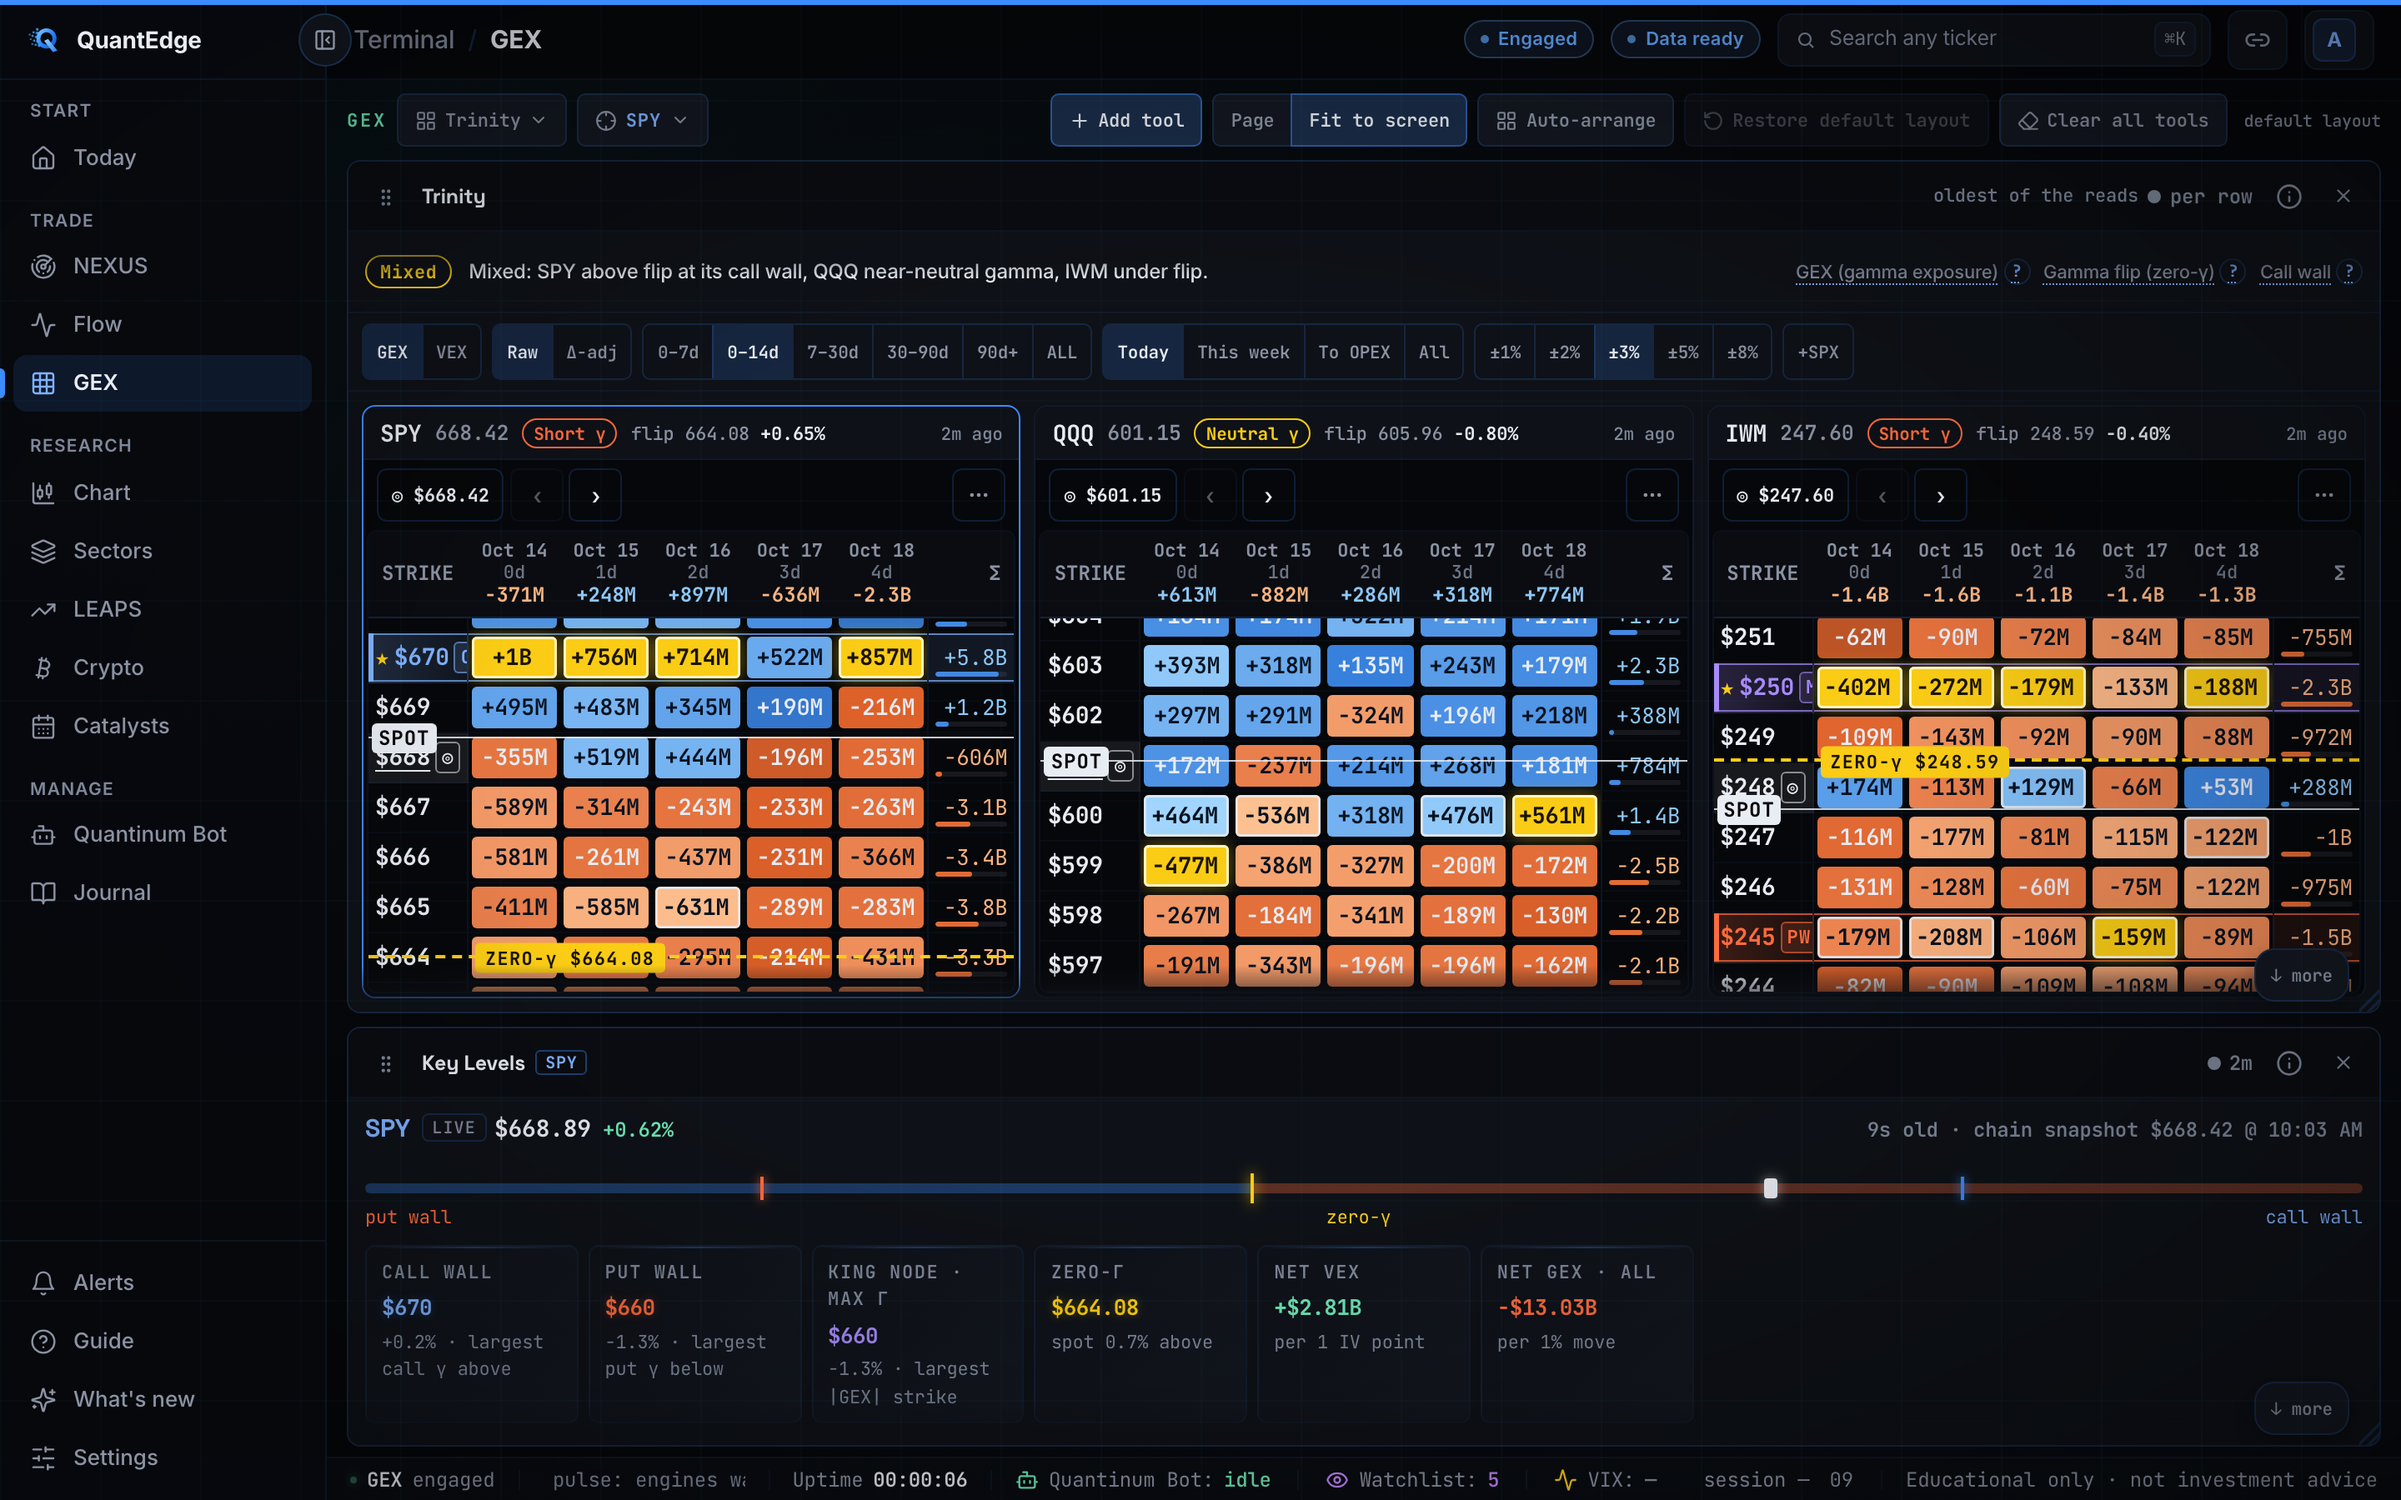
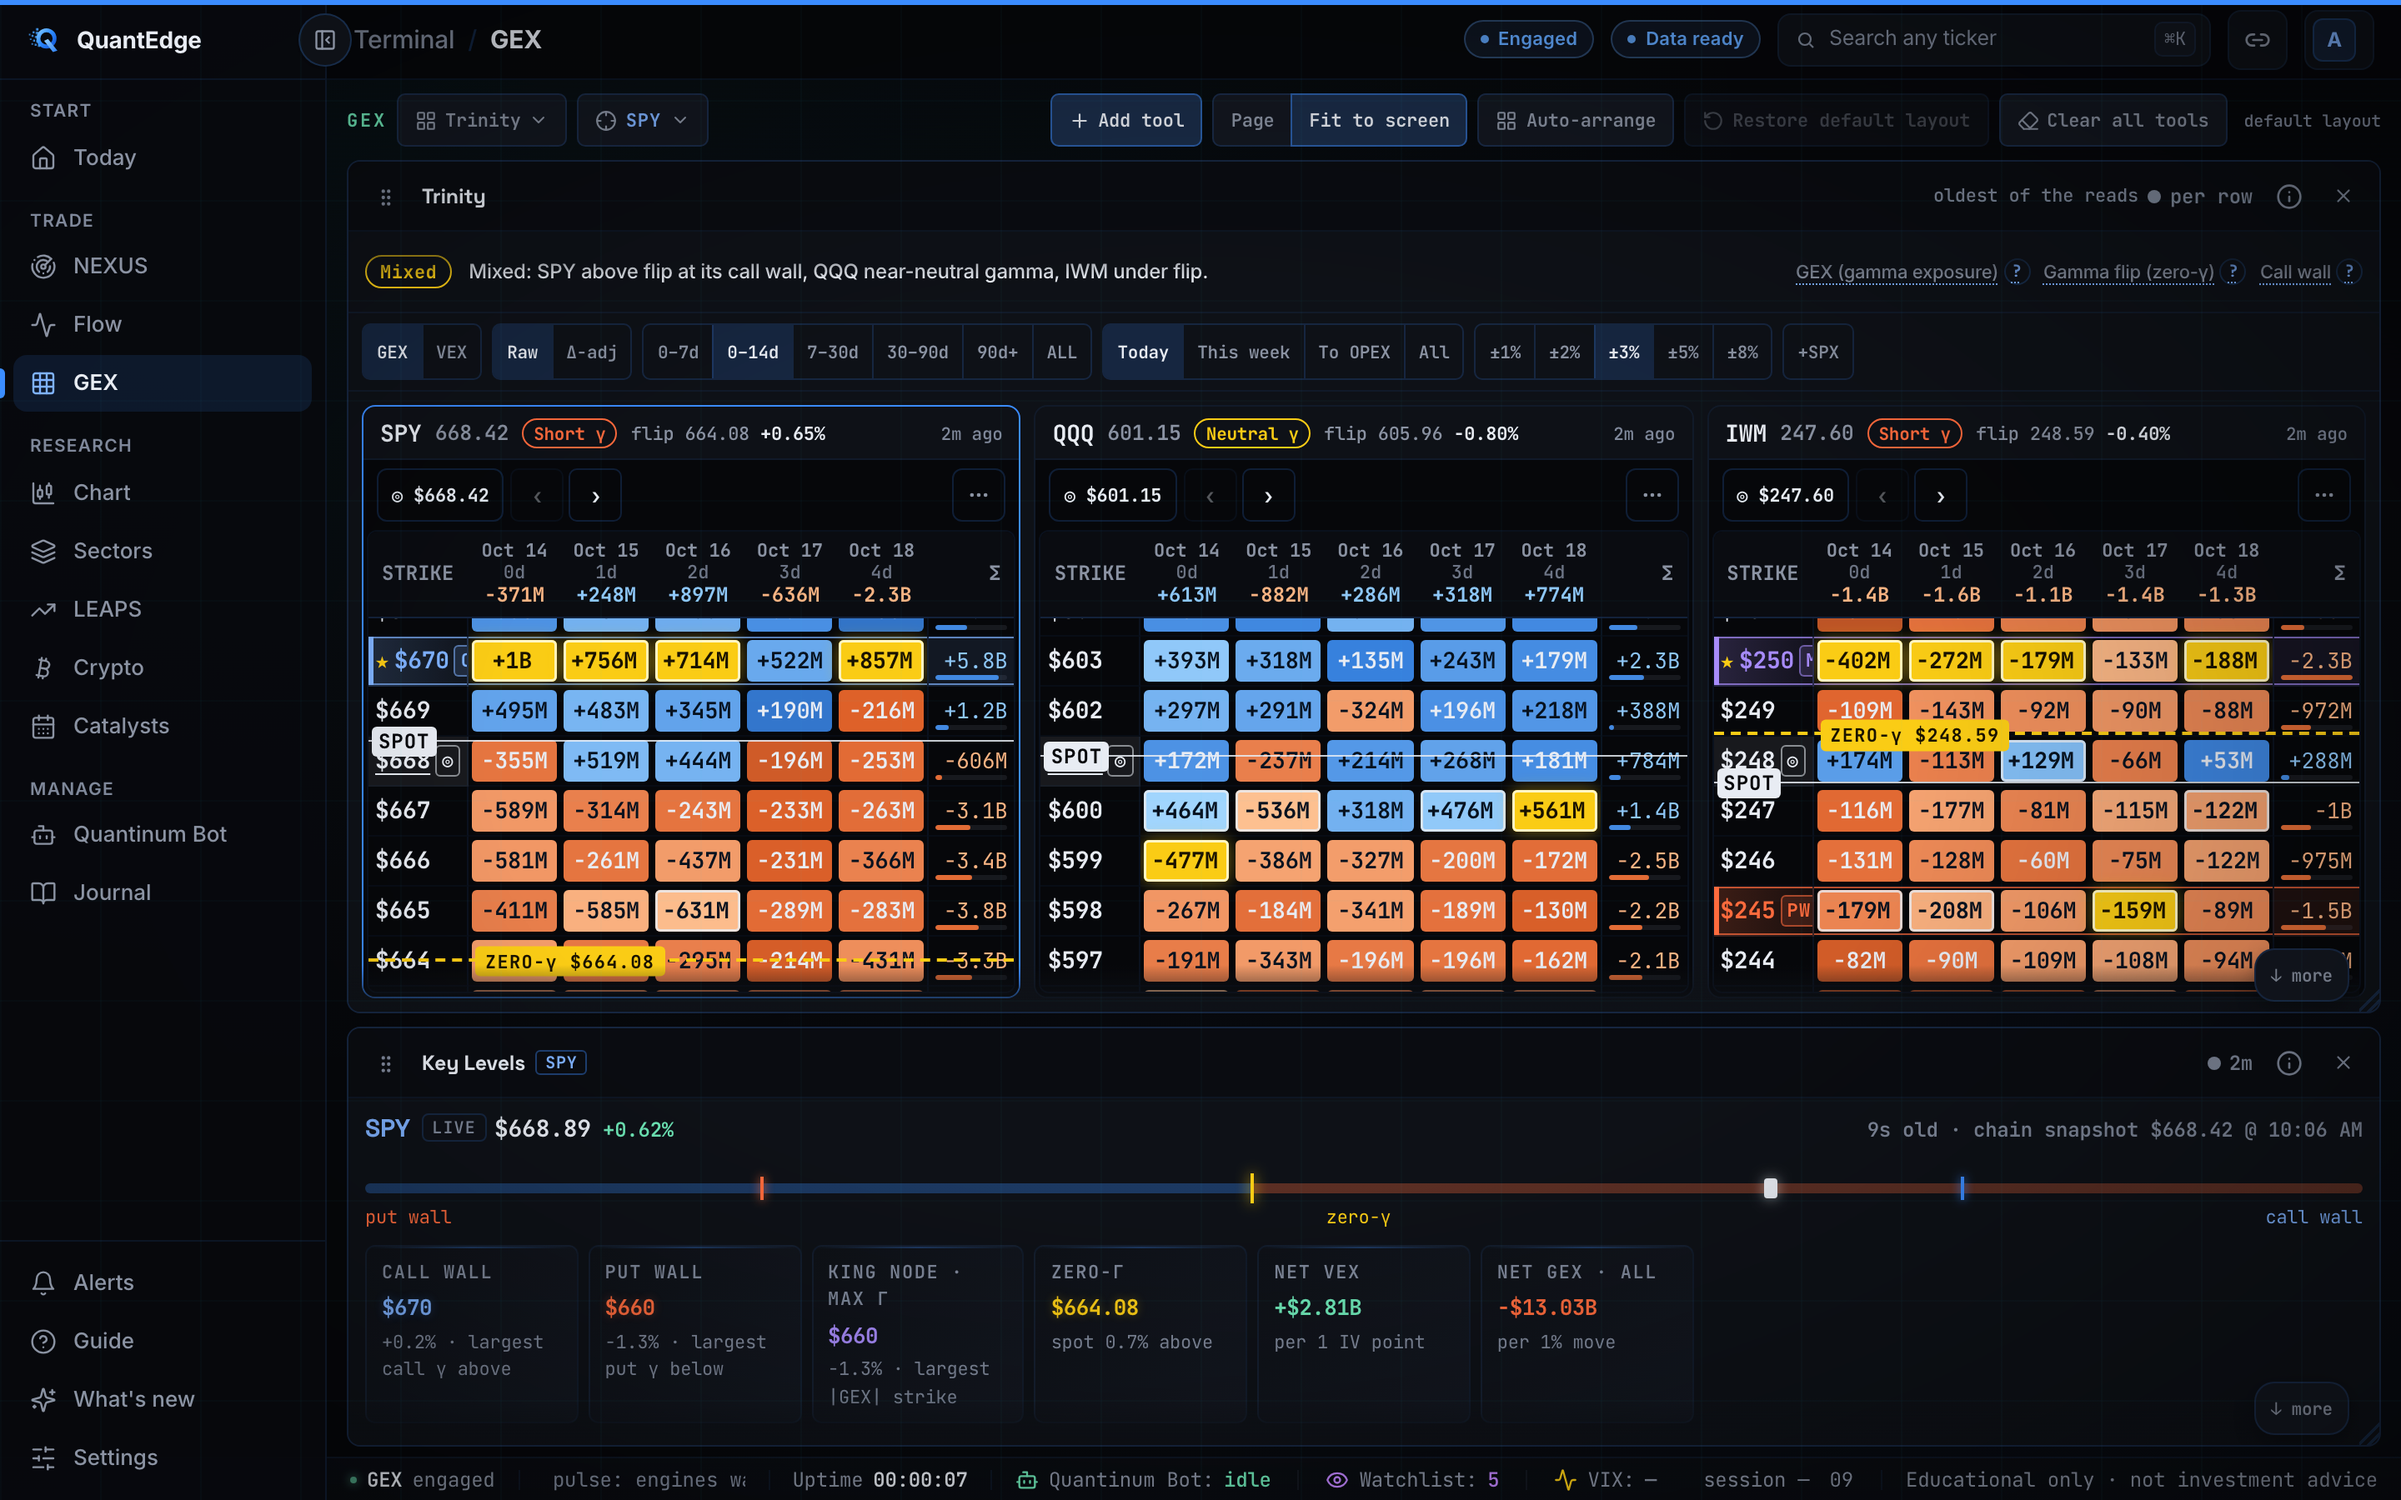
fix(gex): Trinity centres the spot row; compact phone controls
Every pane re-centres on spot (the matrix's own jump-to-spot, scroll sync
suspended) on load, index switch/swipe, range/horizon/window/metric change.
Phone pane gets a fixed height so the heatmap scroller holds the strikes;
control row = index switch + GEX/VEX + a ⋯ sheet for the rest.

Changed region(s): [[0.1562, 0.4044, 1.0, 0.6844]]

diff --git a/client/src/components/dashboard/tools/gex/trinity-tool.tsx b/client/src/components/dashboard/tools/gex/trinity-tool.tsx
@@ -88,14 +88,14 @@ const px = (v: number | null | undefined) => (v == null || !Number.isFinite(v) ?
  * Sync the panes' heatmap scrollers by scroll FRACTION: every pane shows the
  * same ±% band around its own spot, so equal fractions ≈ equal % from spot.
  */
-function useSyncedScroll(root: RefObject<HTMLElement>, key: string) {
+function useSyncedScroll(root: RefObject<HTMLElement>, key: string, suspended: RefObject<boolean>) {
   useEffect(() => {
     const el = root.current;
     if (!el) return;
     let lock = false;
     const onScroll = (e: Event) => {
       const src = e.target as HTMLElement;
-      if (lock || !src.classList?.contains('gx-scroll')) return;
+      if (lock || suspended.current || !src.classList?.contains('gx-scroll')) return;
       const range = src.scrollHeight - src.clientHeight;
       if (range <= 0) return;
       const f = src.scrollTop / range;
@@ -107,7 +107,27 @@ function useSyncedScroll(root: RefObject<HTMLElement>, key: string) {
     };
     el.addEventListener('scroll', onScroll, true);
     return () => el.removeEventListener('scroll', onScroll, true);
-  }, [root, key]);
+  }, [root, key, suspended]);
+}
+
+/**
+ * Centre the SPOT row in every pane: uses each heatmap's own jump-to-spot
+ * control (the matrix's centring, not a re-implementation), with the scroll
+ * sync suspended so one pane's centring does not drag the others.
+ * Re-runs on load (as panes finish loading), index switch, range / horizon /
+ * window / metric change.
+ */
+function useCentreSpot(root: RefObject<HTMLElement>, key: string, ready: string, suspended: { current: boolean }) {
+  useEffect(() => {
+    const el = root.current;
+    if (!el) return;
+    suspended.current = true;
+    const run = () => el.querySelectorAll<HTMLButtonElement>('.trin-pane .gx-jump').forEach((b) => b.click());
+    const t1 = window.setTimeout(run, 120);
+    const t2 = window.setTimeout(run, 450); // after the matrix re-fits its row height
+    const t3 = window.setTimeout(() => { suspended.current = false; }, 650);
+    return () => { clearTimeout(t1); clearTimeout(t2); clearTimeout(t3); suspended.current = false; };
+  }, [root, key, ready, suspended]);
 }
 
 export function GexTrinityTool() {
@@ -148,7 +168,9 @@ export function GexTrinityTool() {
   });
 
   const gridRef = useRef<HTMLDivElement>(null);
-  useSyncedScroll(gridRef, `${symbols.join()}|${metric}|${bucket}|${range}|${horizon}|${narrow}`);
+  const syncOff = useRef(false);
+  const viewKey = `${symbols.join()}|${metric}|${view}|${bucket}|${range}|${horizon}|${narrow}`;
+  useSyncedScroll(gridRef, viewKey, syncOff);
 
   // phone: one pane at a time; swipe switches
   const pick = symbols.includes(phonePick) ? phonePick : symbols[0];
@@ -158,22 +180,12 @@ export function GexTrinityTool() {
     setPhonePick(symbols[(i + d + symbols.length) % symbols.length]);
   }, [symbols, pick]);
   const shown = narrow ? [pick] : symbols;
+  const loadedKey = qs.map((q) => (q.data ? 1 : 0)).join('');
+  useCentreSpot(gridRef, `${viewKey}|${pick}`, loadedKey, syncOff);
+  const [more, setMore] = useState(false);
 
-  return (
-    <div className={`gx-tool gx-col trin${narrow ? ' trin-phone' : ''}`}>
-      <div className="trin-pin">
-        <AgreementStrip agree={agree} loading={qs.every((q) => q.isLoading)} />
-        <div className="gx-controls trin-controls">
-          {narrow && (
-            <div className="of-seg trin-switch" role="tablist" aria-label="Index">
-              {symbols.map((s) => <button key={s} type="button" role="tab" aria-selected={s === pick} className={s === pick ? 'on' : ''} onClick={() => setPhonePick(s)}>{s}</button>)}
-            </div>
-          )}
-          <div className="of-seg" role="group" aria-label="Metric">
-            {(['gex', 'vex'] as const).map((m) => (
-              <button key={m} type="button" className={metric === m ? 'on' : ''} aria-pressed={metric === m} onClick={() => setMetric(m)}>{m.toUpperCase()}</button>
-            ))}
-          </div>
+  const secondary = (
+    <>
           {metric === 'gex' && <GammaViewSeg view={view} onChange={setGview} allowBoth={false} available={adjOk} />}
           <div className="of-seg" role="group" aria-label="Days to expiry">
             {DTE_BUCKETS.map((b) => (
@@ -193,6 +205,30 @@ export function GexTrinityTool() {
           <div className="of-seg" role="group" aria-label="SPX pane">
             <button type="button" className={withSpx ? 'on' : ''} aria-pressed={withSpx} onClick={() => setWithSpx(!withSpx)} title="Add SPX (reference only — not part of the agreement read)">+SPX</button>
           </div>
+    </>
+  );
+
+  return (
+    <div className={`gx-tool gx-col trin${narrow ? ' trin-phone' : ''}`}>
+      <div className="trin-pin">
+        <AgreementStrip agree={agree} loading={qs.every((q) => q.isLoading)} />
+        <div className="gx-controls trin-controls">
+          {narrow && (
+            <div className="of-seg trin-switch" role="tablist" aria-label="Index">
+              {symbols.map((s) => <button key={s} type="button" role="tab" aria-selected={s === pick} className={s === pick ? 'on' : ''} onClick={() => setPhonePick(s)}>{s}</button>)}
+            </div>
+          )}
+          <div className="of-seg" role="group" aria-label="Metric">
+            {(['gex', 'vex'] as const).map((m) => (
+              <button key={m} type="button" className={metric === m ? 'on' : ''} aria-pressed={metric === m} onClick={() => setMetric(m)}>{m.toUpperCase()}</button>
+            ))}
+          </div>
+          {narrow ? (
+            <>
+              <button type="button" className="fd-btn trin-more" aria-expanded={more} aria-label="More controls" onClick={() => setMore((v) => !v)}>⋯</button>
+              {more && <div className="trin-sheet" role="dialog" aria-label="Trinity controls">{secondary}</div>}
+            </>
+          ) : secondary}
         </div>
       </div>
 

diff --git a/research/gex-trinity/shots.ts b/research/gex-trinity/shots.ts
@@ -51,13 +51,13 @@ const pw = loadPlaywright();
       await page.waitForTimeout(1500);
       await page.evaluate(() => document.querySelector('[data-testid="trinity-agreement"]')?.scrollIntoView({ block: 'start' }));
     }
-    await page.waitForTimeout(1500);
+    await page.waitForTimeout(2000);
     const file = path.join(OUT, `trinity-${w}.png`);
     await page.screenshot({ path: file, fullPage: false });
     const check = await page.evaluate(() => ({
       overflowX: document.documentElement.scrollWidth > window.innerWidth + 1,
       sentence: document.querySelector('.trin-sentence')?.textContent ?? null,
-      cards: document.querySelectorAll('.trin-pane').length, heatmaps: document.querySelectorAll('.trin-pane .gx-scroll').length,
+      cards: document.querySelectorAll('.trin-pane').length, heatmaps: document.querySelectorAll('.trin-pane .gx-scroll').length, spotOffscreen: document.querySelectorAll('.trin-pane .gx-jump.off').length, ctrlOverflow: [...document.querySelectorAll('.trin-controls')].some((c) => c.scrollWidth > c.clientWidth + 1),
     }));
     console.log(w, JSON.stringify(check), '→', path.relative(process.cwd(), file));
     await ctx.close();

diff --git a/client/src/components/dashboard/tools/gex/trinity-tool.css b/client/src/components/dashboard/tools/gex/trinity-tool.css
@@ -28,3 +28,9 @@
 .flowdash .trin-phone .trin-grid{padding:8px 0;min-height:70vh}
 .flowdash .trin-phone .trin-pane{min-height:66vh}
 .flowdash .trin-phone .trin-switch button{min-width:56px;height:34px;font-size:12px}
+/* phone: fixed pane height so the heatmap's own scroller (not the page) holds the strikes — spot centring needs it */
+.flowdash .trin-phone .trin-pane{height:64vh;min-height:0}
+.flowdash .trin-phone .trin-controls{flex-wrap:nowrap;overflow:visible;position:relative;gap:6px}
+.flowdash .trin-phone .trin-more{margin-left:auto;min-width:44px;height:34px;font-size:16px}
+.flowdash .trin-sheet{position:absolute;right:8px;top:calc(100% + 4px);z-index:5;display:flex;flex-direction:column;align-items:flex-start;gap:8px;padding:10px;max-width:calc(100vw - 32px);border:1px solid var(--nx-border-hi);border-radius:8px;background:var(--nx-panel,var(--bg,#0b0e14));box-shadow:0 8px 24px rgba(0,0,0,.4)}
+.flowdash .trin-sheet .of-seg{flex-wrap:wrap}

diff --git a/scripts/test-gex-trinity.ts b/scripts/test-gex-trinity.ts
@@ -101,6 +101,8 @@ const ix = (symbol: string, spot: number, flip: number | null, cw: number | null
   ok(!/trin-ladder|ladderWindow|trin-fill/.test(tool), 'bar ladders removed');
   ok(tool.includes('useSyncedScroll') && tool.includes('strikeBand={band}'), 'shared ±% band + synced scroll');
   ok(tool.includes('trin-switch') && tool.includes('onTouchEnd'), 'phone: segmented switch + swipe');
+  ok(tool.includes('useCentreSpot') && /useCentreSpot\(gridRef, `\$\{viewKey\}\|\$\{pick\}`/.test(tool) && /viewKey = `[^`]*range[^`]*horizon/.test(tool), 'spot re-centred on load, index switch, range / horizon change');
+  ok(tool.includes('trin-sheet') && tool.includes('More controls'), 'phone: compact row + ⋯ sheet');
   ok(tool.includes("'SPX'") && tool.includes('Reference only'), '+SPX optional reference pane');
 
   console.log(`gex-trinity: ${n} assertions passed`);
